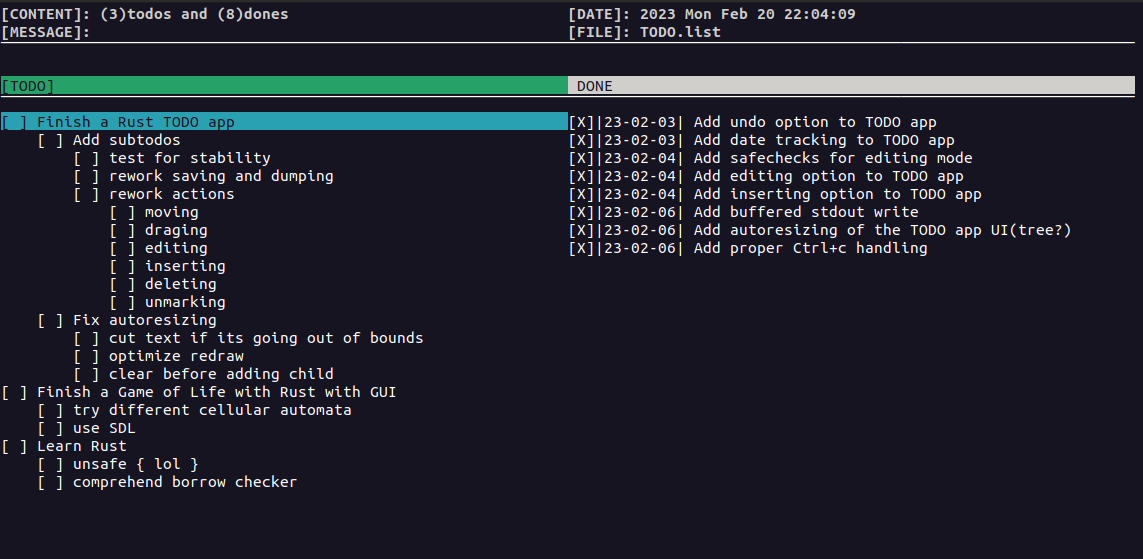
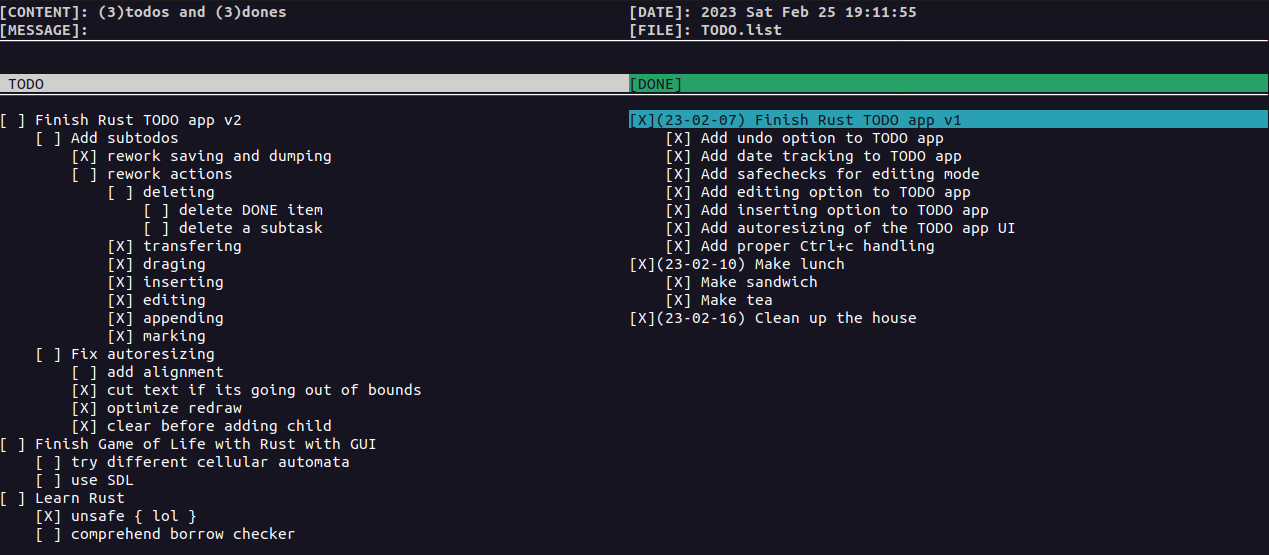
append fixed & tested

Changed region(s): [[0.0, 0.1225, 1.0, 0.9802], [0.0, 0.0, 1.0, 0.0919]]

diff --git a/src/mods/todo.rs b/src/mods/todo.rs
@@ -341,8 +341,10 @@ impl List {
                     }
                 }
             }
+
+            let parent = parent.unwrap_or(0);
             for child_id in item.children.iter_mut() {
-                if *child_id as isize + by >= 0 && *child_id >= parent {
+                if *child_id as isize + by >= 0 && *child_id > parent {
                     *child_id = (*child_id as isize + by) as usize;
                 }
             }
@@ -365,13 +367,13 @@ impl List {
     }
 
     fn append(&mut self) -> Result<(), &'static str> {
-        if let Some(parent) = self.list.get_mut(self.cur) {
+        if self.list.len() > 0 {
             let item = Item::new(String::new(), Local::now(), Some(self.cur), 1);
-            parent.children.push(self.cur);
 
             self.unmark_parents(Some(self.cur));
             self.shift_indices(1, 0, None, Some(self.cur));
 
+            self.list[self.cur].children.push(self.cur + 1);
             self.list.insert(self.cur + 1, item);
             self.cur += 1;
 
@@ -417,6 +419,8 @@ impl List {
             let parent = item.parent;
             if item.act_cnt == 1 {
                 item.act_cnt = 0;
+                item.date = Local::now();
+
                 if let Some(p) = parent {
                     self.list[p].act_cnt -= 1;
                 }
@@ -1088,7 +1092,6 @@ impl TodoApp {
                             .action;
                         match act {
                             Action::Insert | Action::Append => {
-                                self.todos.delete().unwrap();
                                 if act == Action::Append {
                                     self.todos.up();
                                 }
@@ -1108,10 +1111,10 @@ impl TodoApp {
             Panel::Done => {
                 if let Some(cur_done) = self.dones.get_cur_item_mut() {
                     if cur_done.text.is_empty() {
-                        self.dones.delete().unwrap();
-                    } else {
-                        cur_done.trim_text();
+                        self.message.push_str("DONE item can't be empty.");
+                        return false;
                     }
+                    cur_done.trim_text();
                 }
             }
         }

diff --git a/src/main.rs b/src/main.rs
@@ -20,7 +20,7 @@ const HIGHLIGHT_PAIR: i16 = 3;
 const UI_PAIR: i16 = 4;
 const HELP_PAIR: i16 = 5;
 
-const USAGE: &str = "Usage: todo [-f | --file <file>] [-h | --help]";
+const USAGE: &str = "Usage: todors [-f | --file <file>] [-h | --help]";
 const HELP: &str = r#"ToDors - a simple todo list manager in terminal.
 Author: Iurii Kondrakov <deezzir@gmail.com>
 
@@ -73,6 +73,7 @@ fn main() {
     let mut editing_cursor: usize = 0;
     let mut term_size = Vec2::new(0, 0);
     let mut timeout = 0;
+
     let mut mode: Mode = Mode::Normal;
     let mut disp: Display = Display::App;
     let mut ui = UI::new();
@@ -240,7 +241,6 @@ fn display_app(ui: &mut UI, app: &mut TodoApp, mode: Mode, editing_cursor: usize
                 let indent = " ".repeat(level * INDENT_SIZE);
                 let prefix = prefix(app.is_subs_hidden(), todo.has_children(), todo.is_active());
                 let text = todo.get_text();
-                let _date = todo.get_date();
 
                 if app.is_cur_todo(todo) && app.is_in_todos() {
                     if mode == Mode::Edit {
